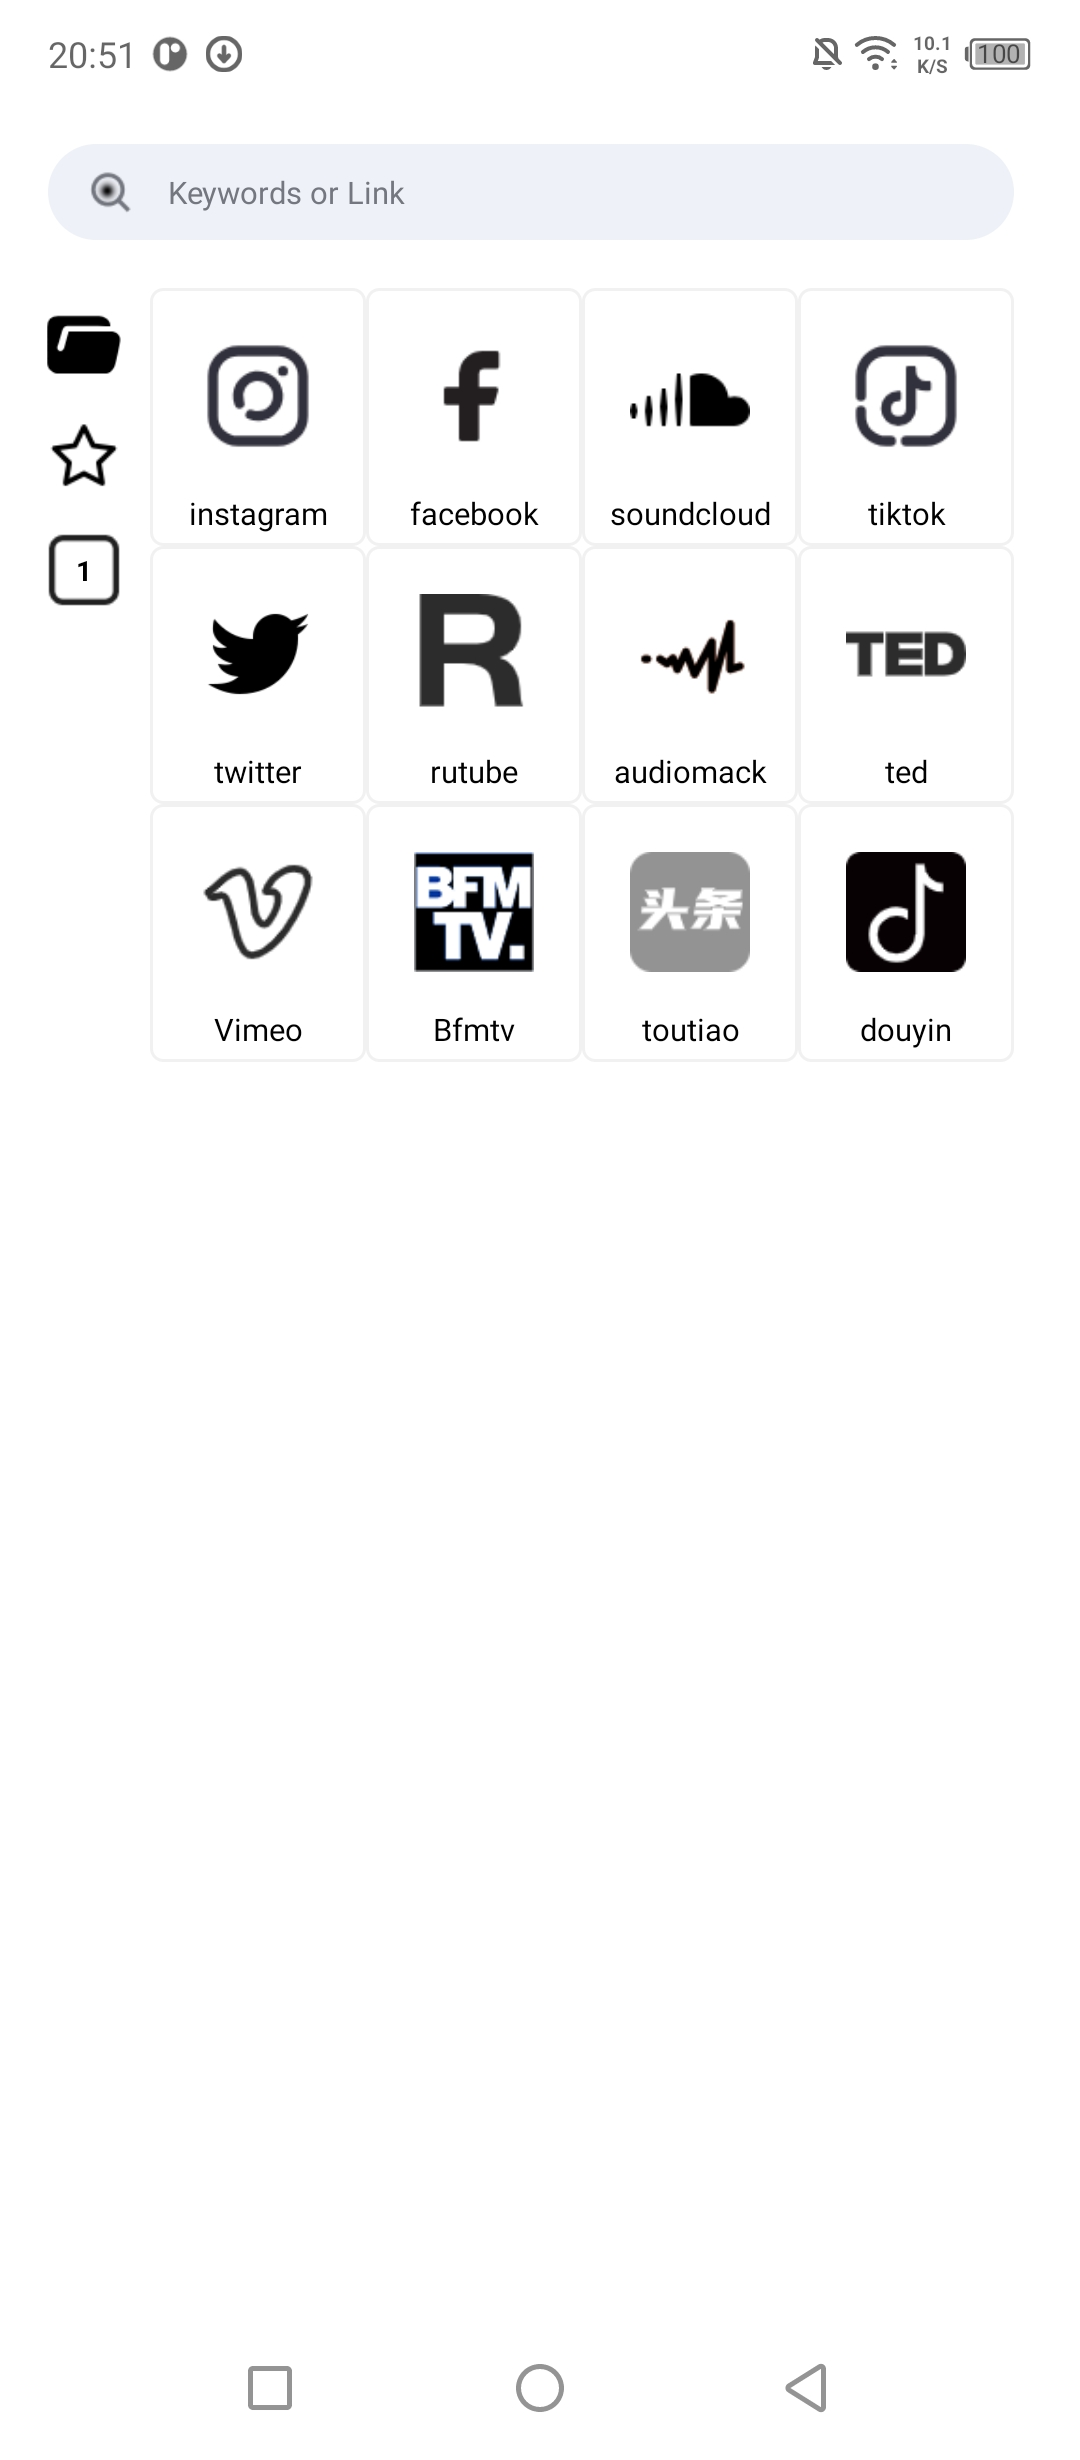
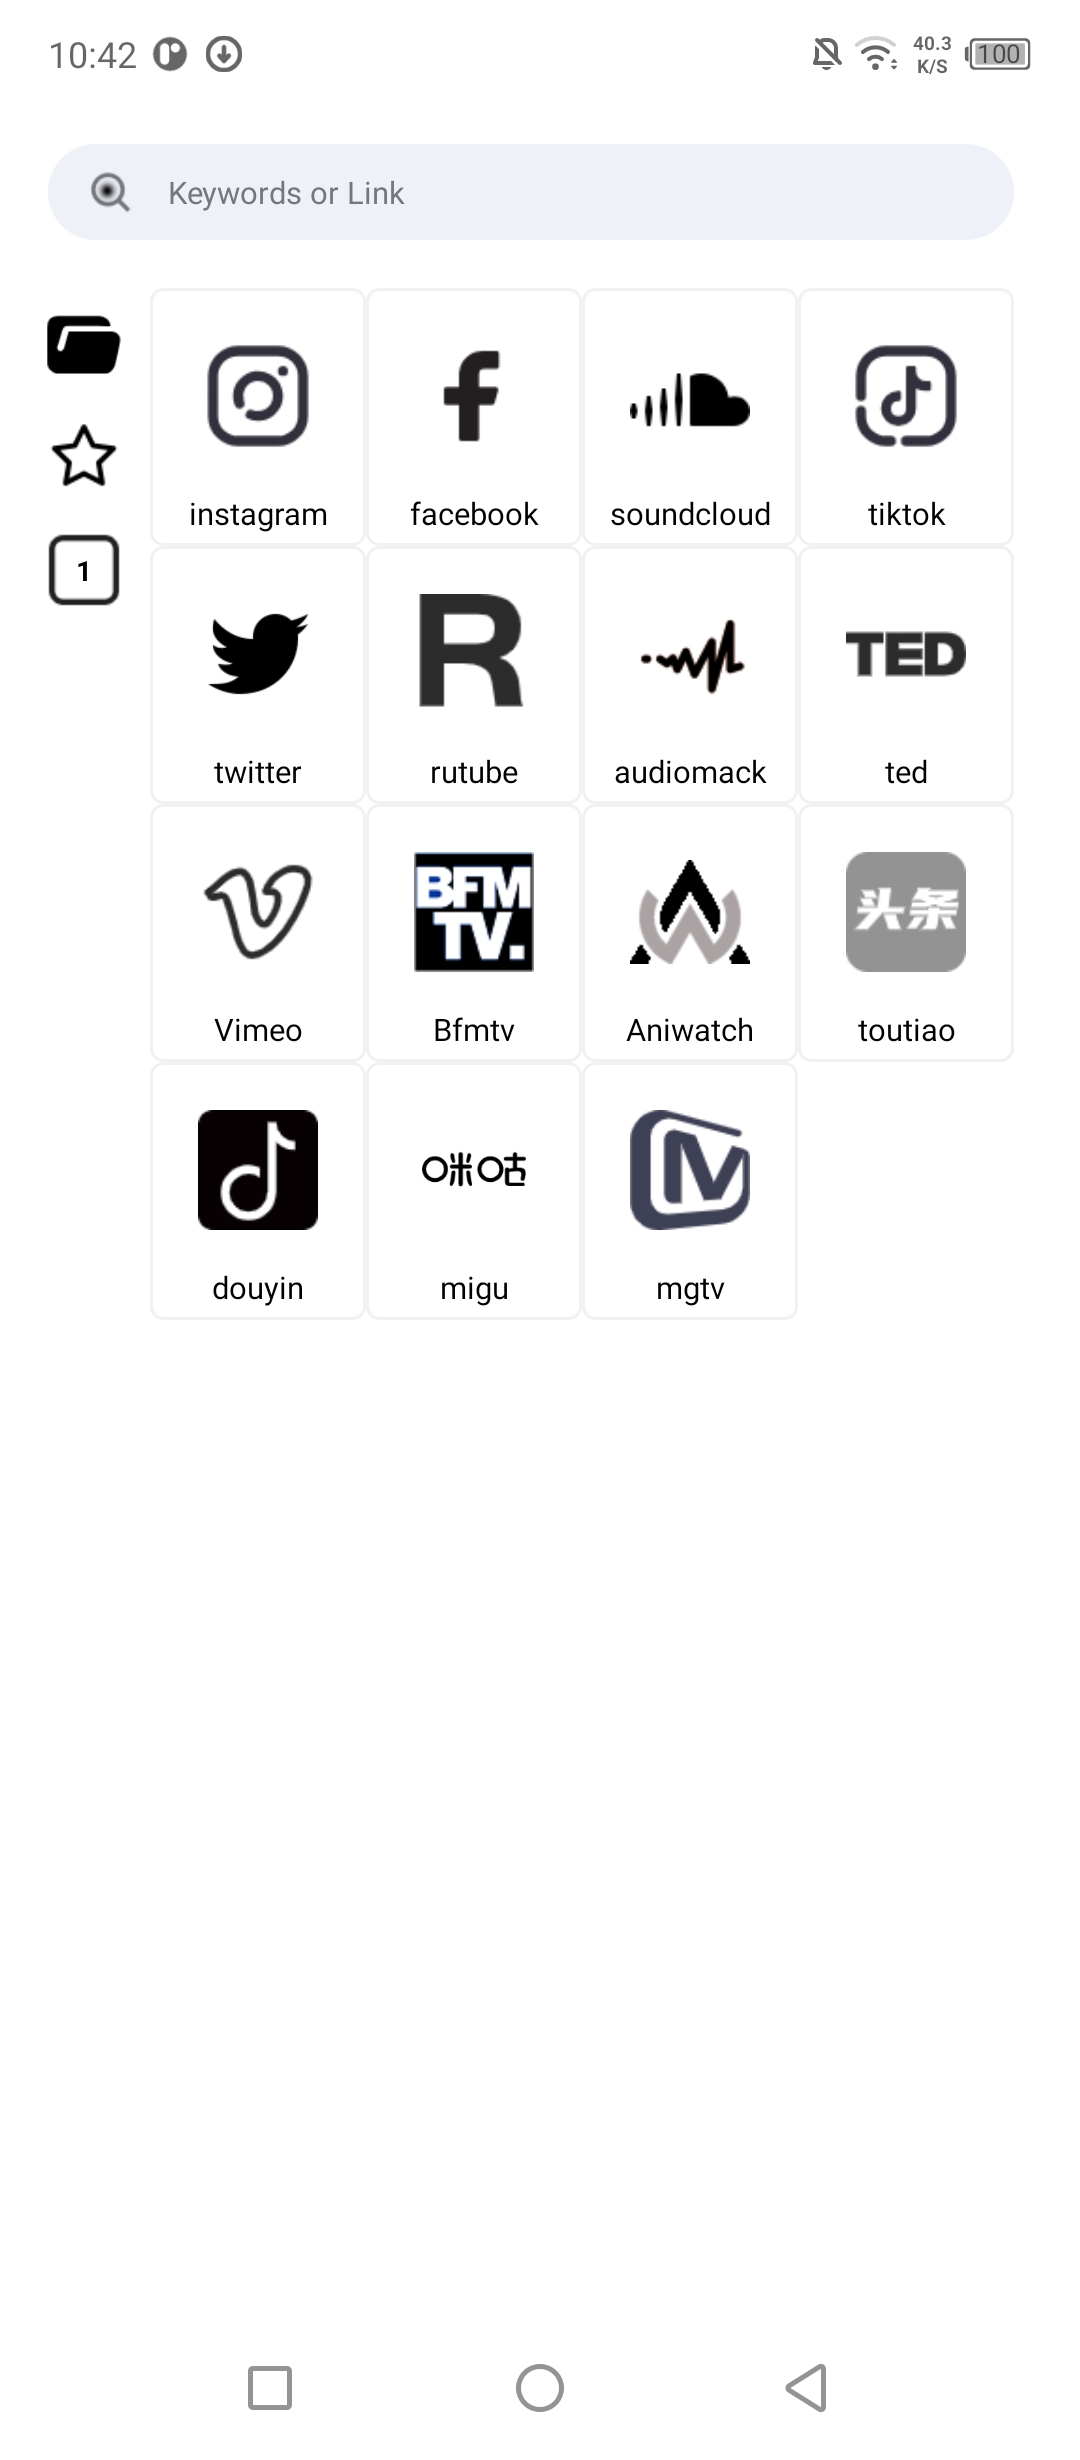
1.3.9

diff --git a/README.md b/README.md
@@ -12,7 +12,10 @@ Audiomack music download,
 Ted video download,
 Vimeo video download,
 Bfmtv video download,
+Aniwatchtv video download,
 今日头条视频下载,
+咪咕(migu)视频下载,
+芒果(mgtv)视频下载,
 抖音视频下载.
 
 <img src="https://github.com/JoeLeeto/5A-Downloader/blob/main/Screenshot/Screenshot_20231214-205138.jpg" width="200px"><img src="https://github.com/JoeLeeto/5A-Downloader/blob/main/Screenshot/Screenshot_20231214-205210.jpg" width="200px"><img src="https://github.com/JoeLeeto/5A-Downloader/blob/main/Screenshot/Screenshot_20231214-212735.jpg" width="200px"><img src="https://github.com/JoeLeeto/5A-Downloader/blob/main/Screenshot/Screenshot_20231214-213031.jpg" width="200px">
